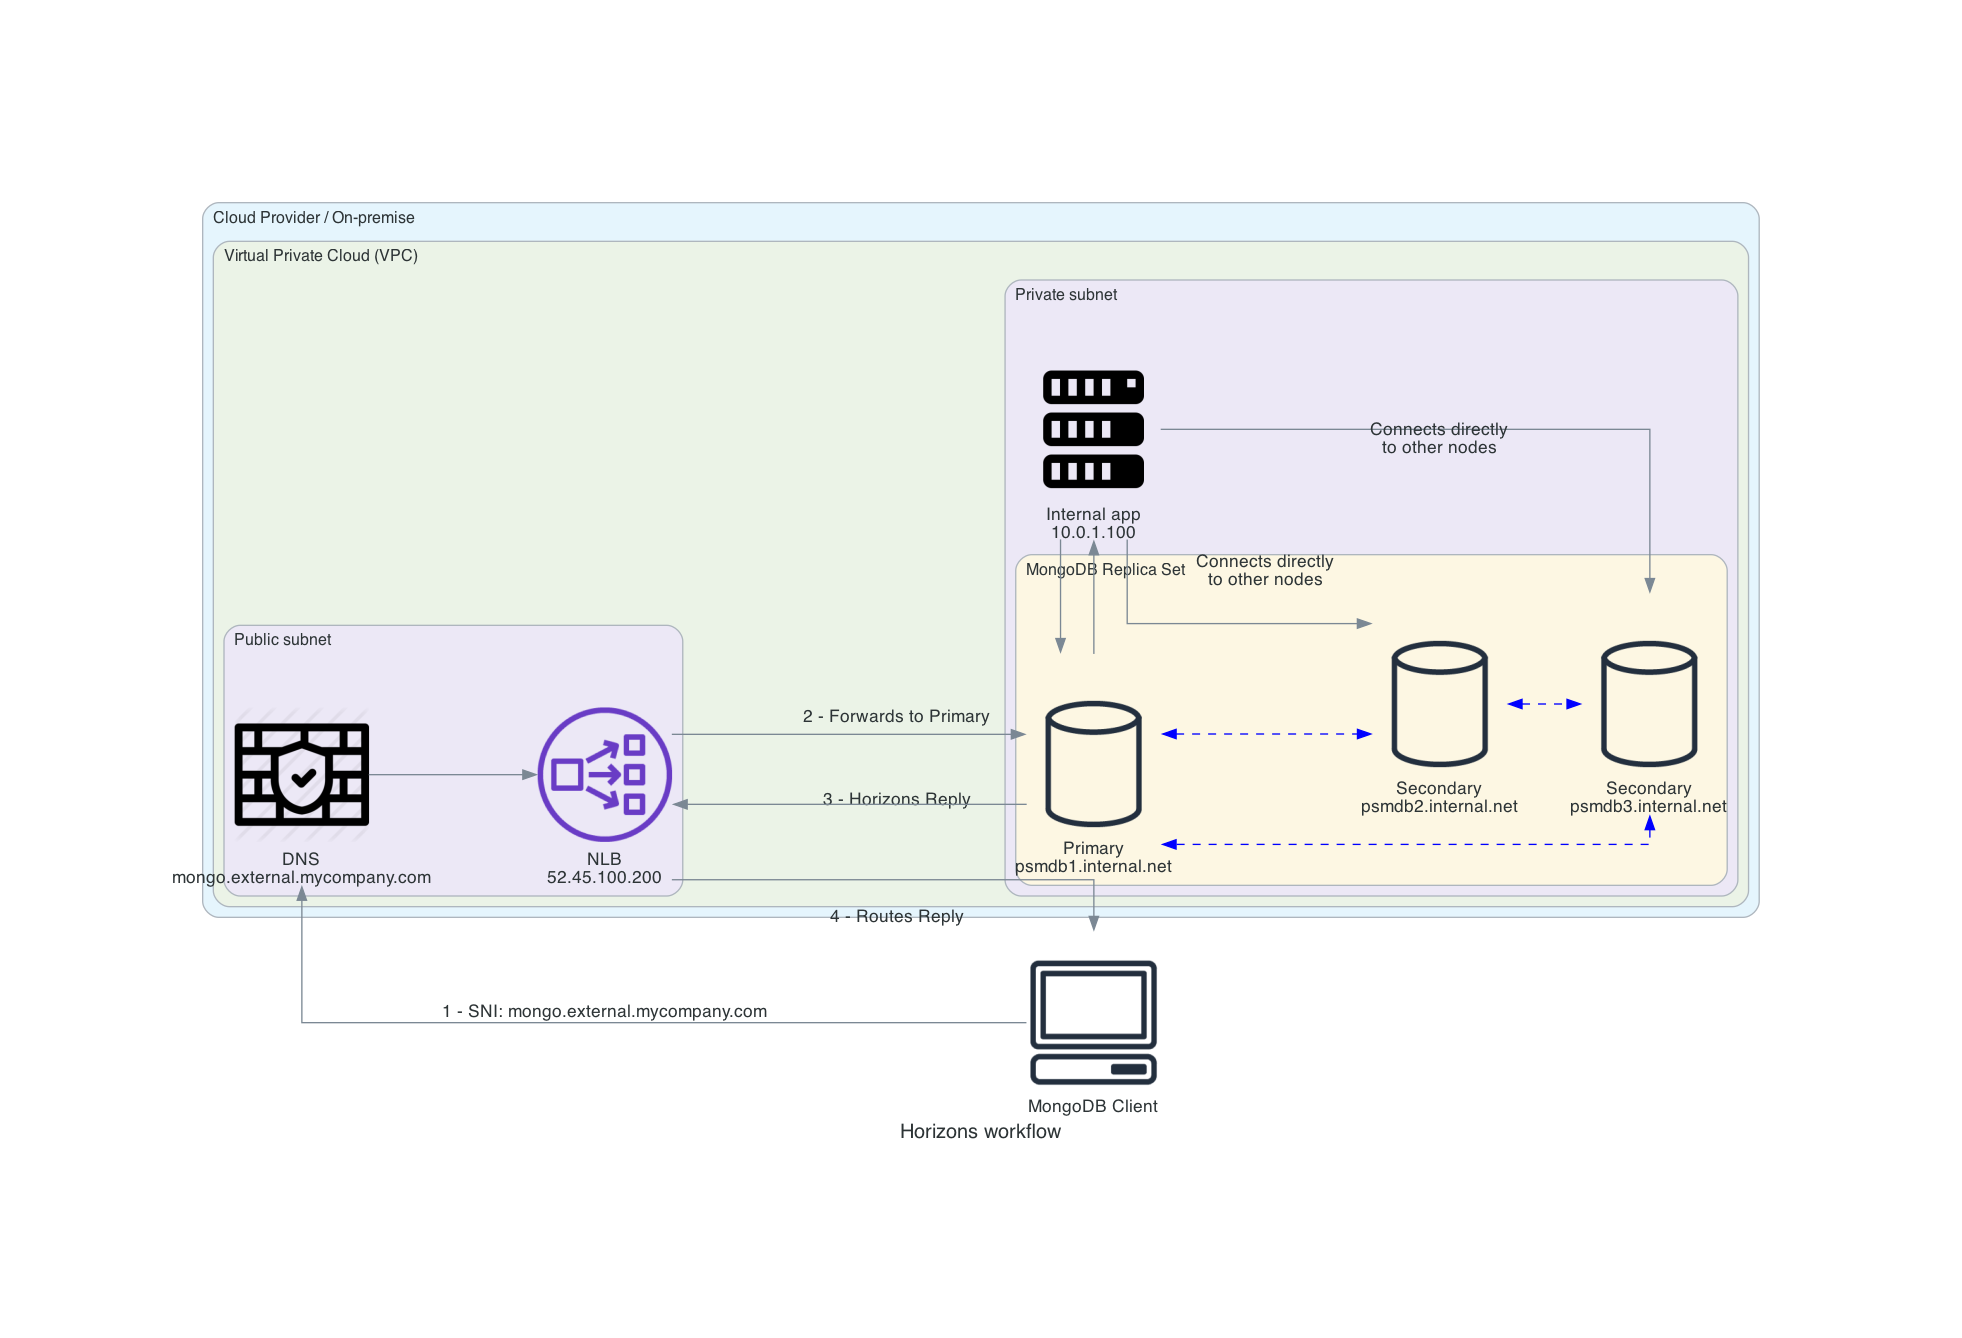
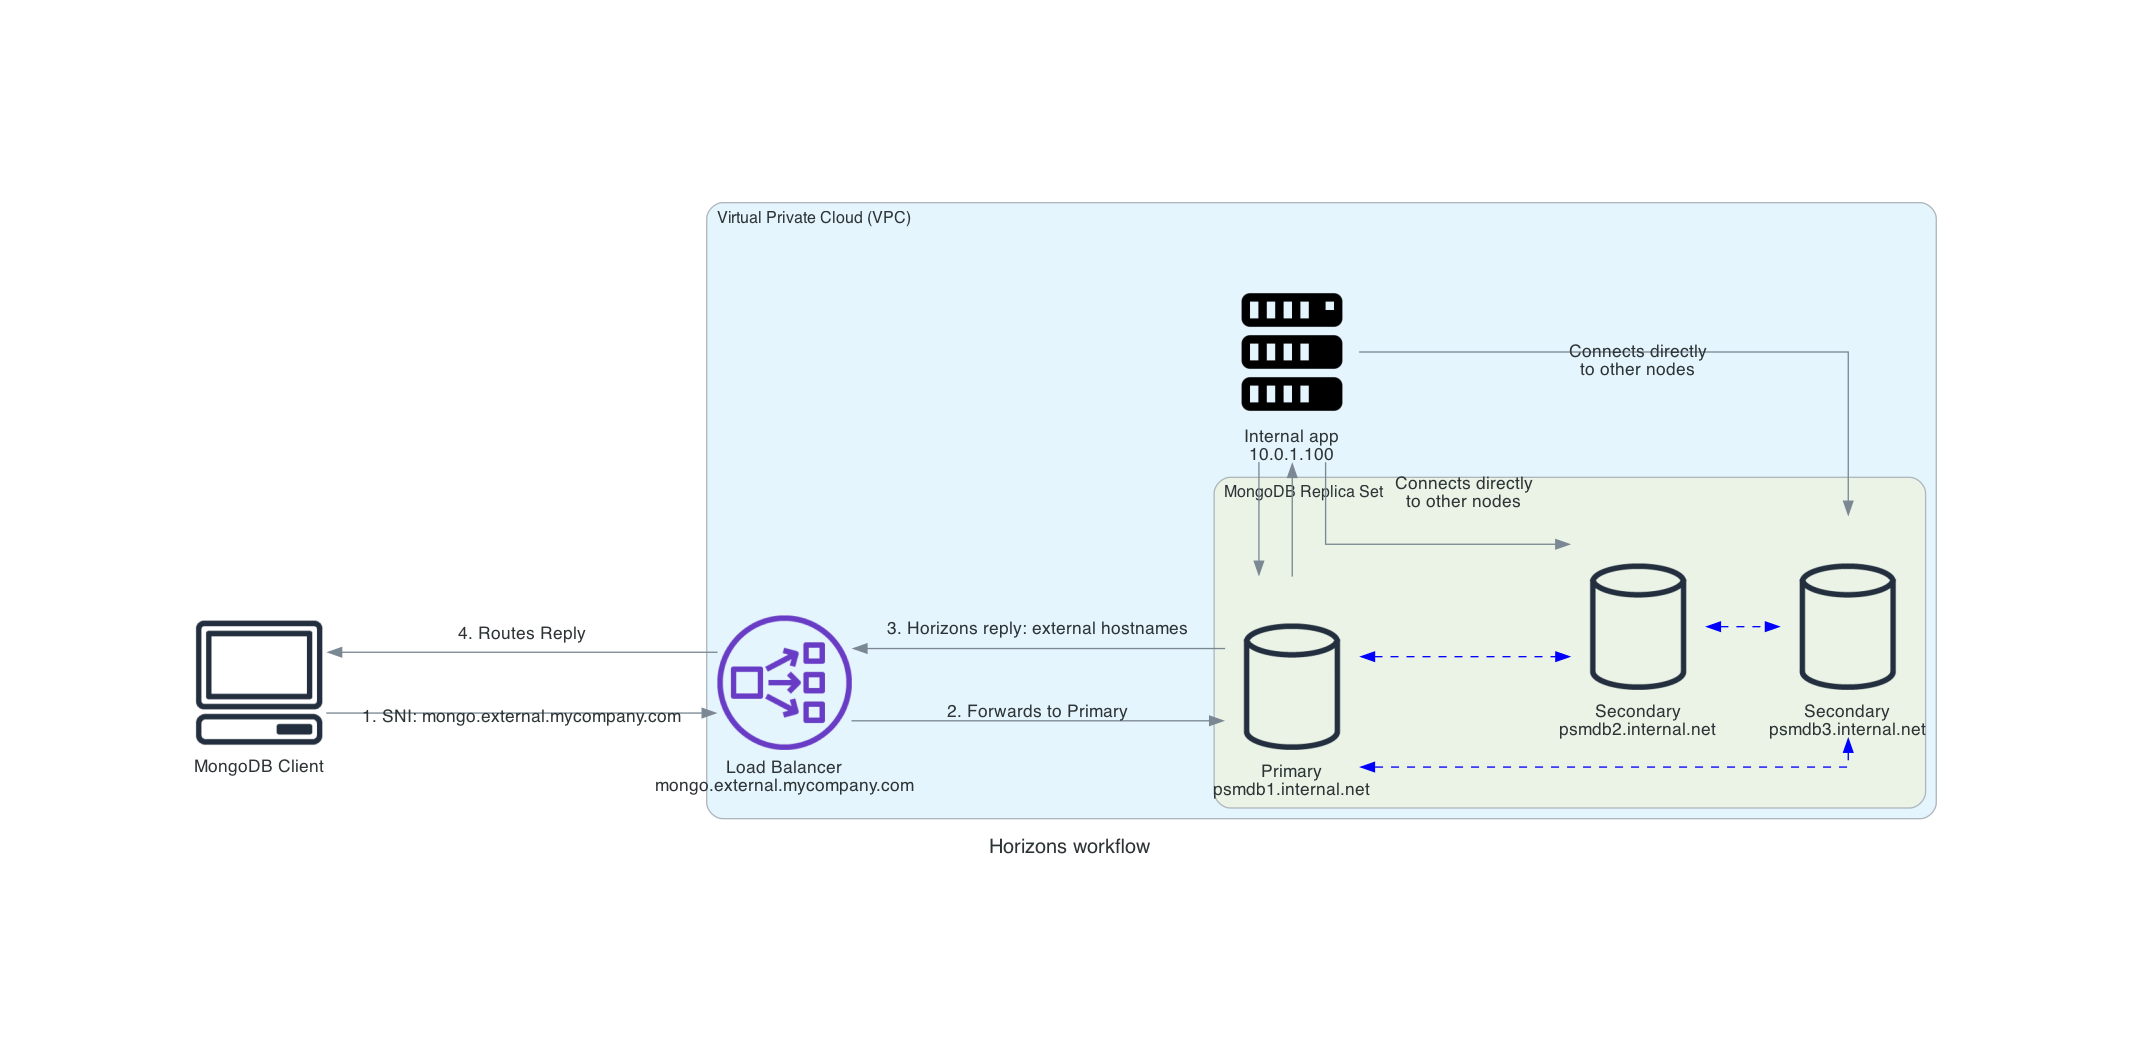
Simplified the diagram

Changed region(s): [[0.0933, 0.1519, 0.9327, 0.8509], [0.684, 0.3039, 0.8084, 0.3647], [0.5285, 0.2127, 0.5596, 0.2431]]

diff --git a/docs/_images/py_sources/horizons_simple.py b/docs/_images/py_sources/horizons_simple.py
@@ -1,0 +1,40 @@
+from diagrams import Diagram, Cluster, Edge
+from diagrams.aws.general import Client
+from diagrams.onprem.compute import Server
+from diagrams.aws.network import NLB
+from diagrams.aws.general import GenericDatabase
+
+with Diagram("Horizons workflow", show=False, filename="mongodb_horizons_diagram"):
+    # External World
+    external_client = Client("MongoDB Client")
+
+    with Cluster("Virtual Private Cloud (VPC)"):
+            nlb = NLB("Load Balancer\nmongo.external.mycompany.com")
+            with Cluster("MongoDB Replica Set"):
+                # Create nodes in horizontal alignment
+                primary = GenericDatabase("Primary\npsmdb1.internal.net")
+                secondary1 = GenericDatabase("Secondary\npsmdb2.internal.net")
+                secondary2 = GenericDatabase("Secondary\npsmdb3.internal.net")
+
+            app_server = Server("Internal app\n10.0.1.100")
+
+    # External client flow
+    external_client >> Edge(label="4. Routes Reply") >>  nlb
+    nlb >> Edge(label="1. SNI: mongo.external.mycompany.com") >> external_client
+
+    nlb >> Edge(label="2. Forwards to Primary") >> primary
+    primary >> Edge(label="3. Horizons reply: external hostnames" ) >>  nlb
+    
+
+    # Internal app flow - positioned to avoid overlap with cluster label
+    app_server >> Edge(label="1 - Internal DNS (SNI: psmdb1.internal.net)") >> primary
+    primary >> Edge(label="2 - Internal Reply (internal hostnames)") >> app_server
+    
+    # Position these connections to avoid label overlap
+    app_server >> Edge(label="Connects directly\nto other nodes") >> secondary1
+    app_server >> Edge(label="Connects directly\nto other nodes") >> secondary2
+
+    # Replica set replication - arranged to avoid crossing
+    primary << Edge(color="blue", style="dashed") >> secondary1
+    secondary1 << Edge(color="blue", style="dashed") >> secondary2
+    secondary2 << Edge(color="blue", style="dashed") >> primary
